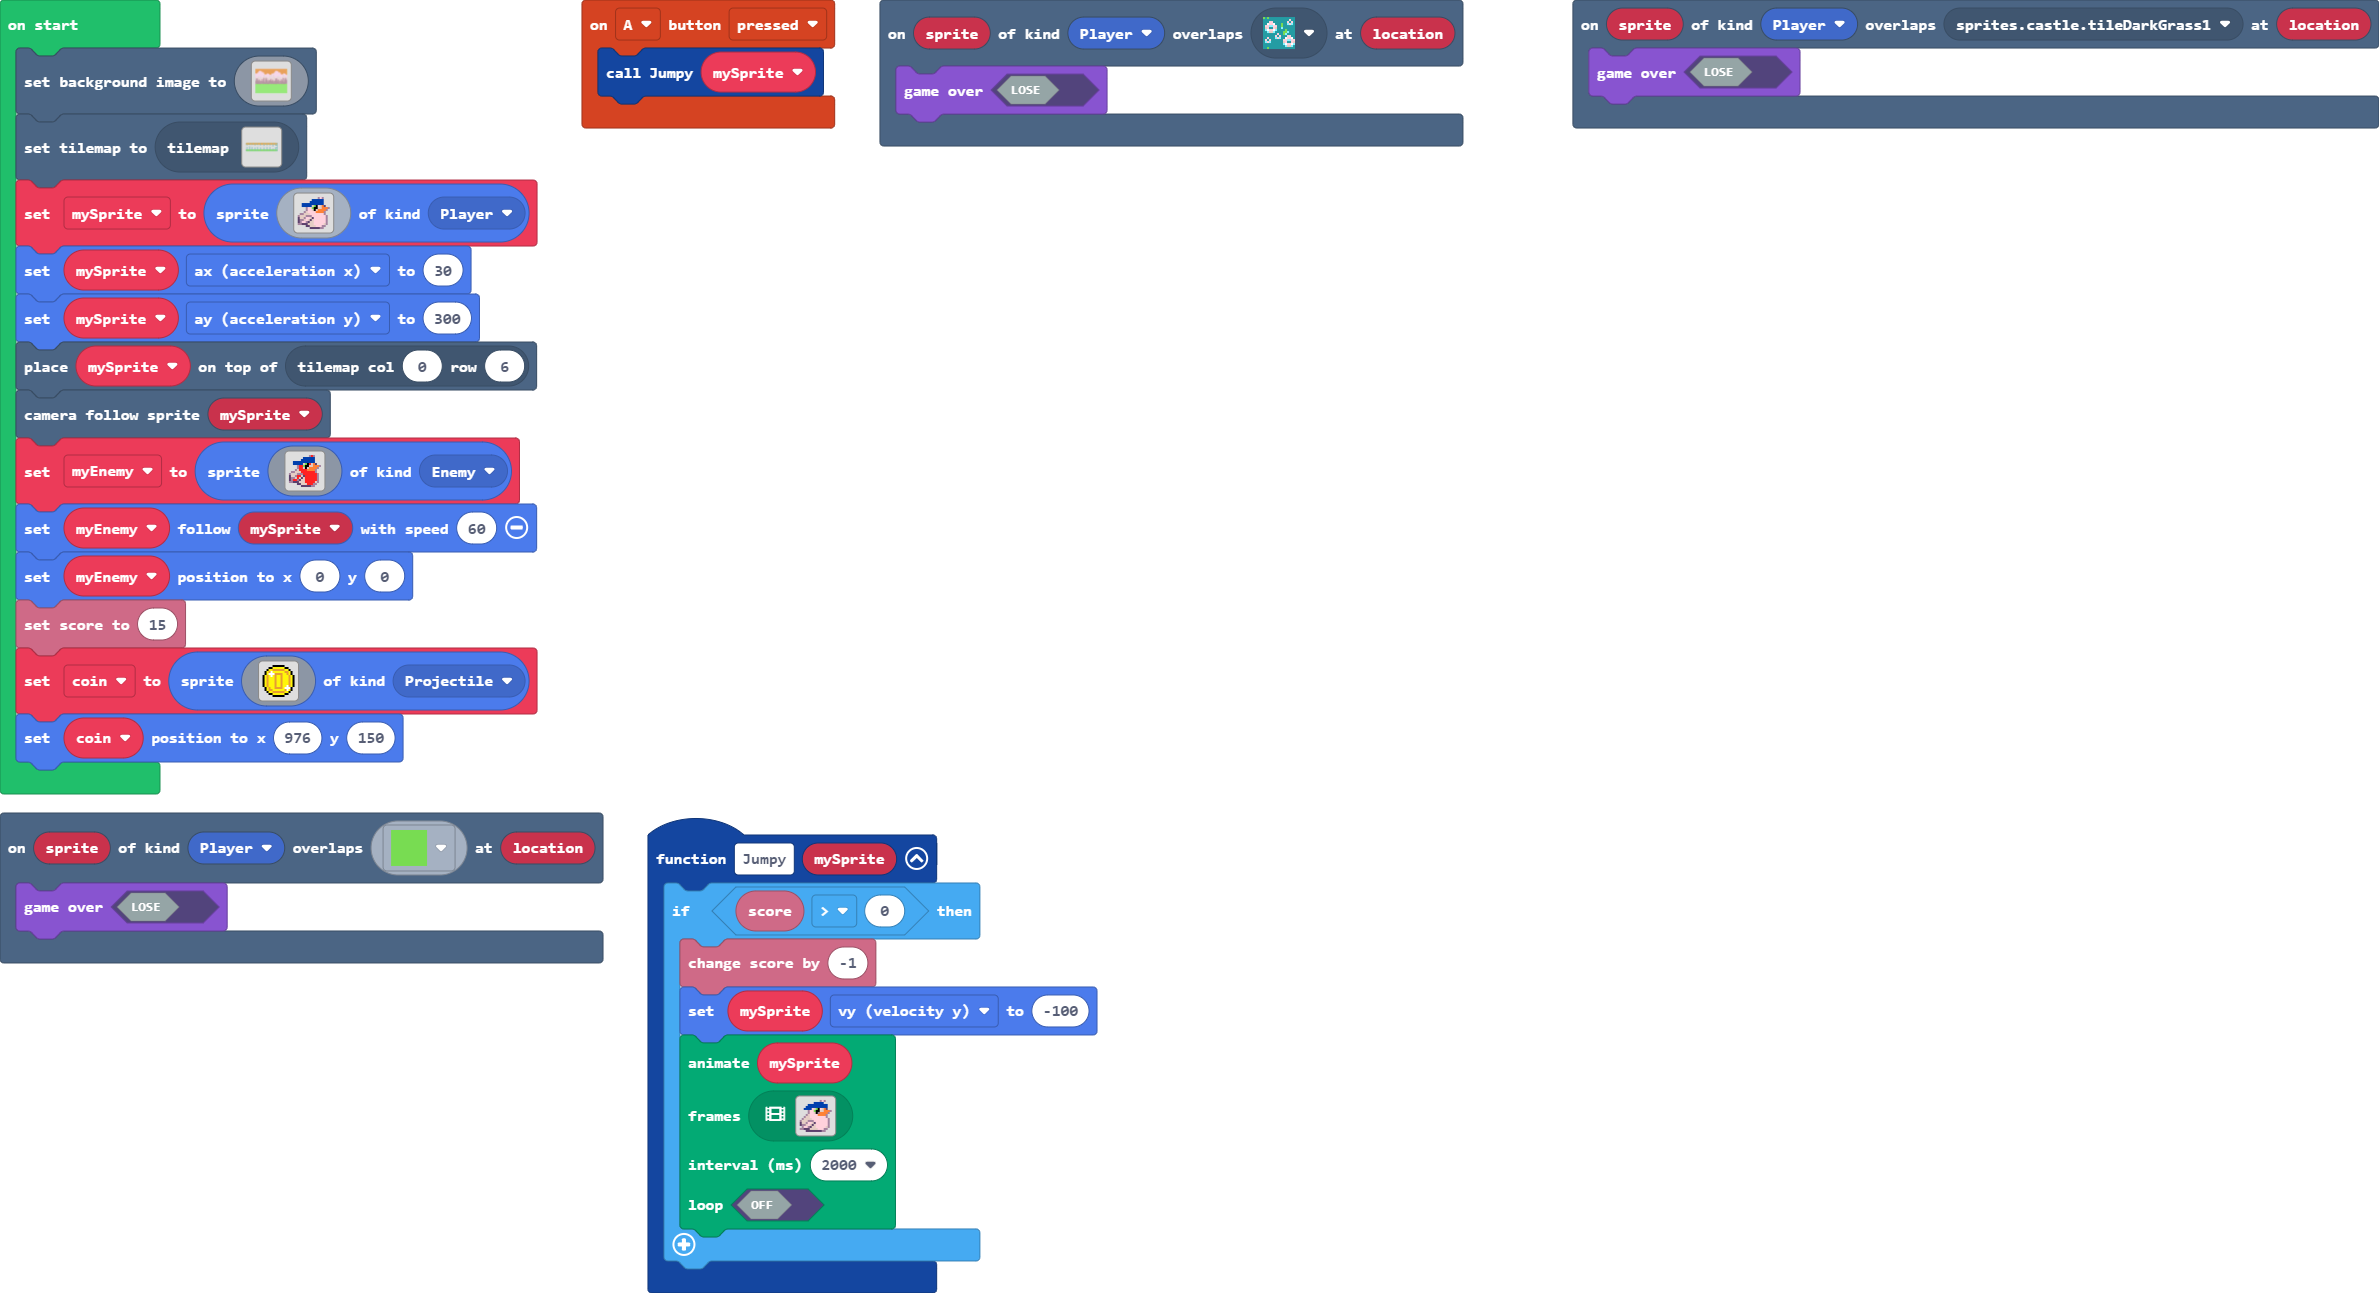
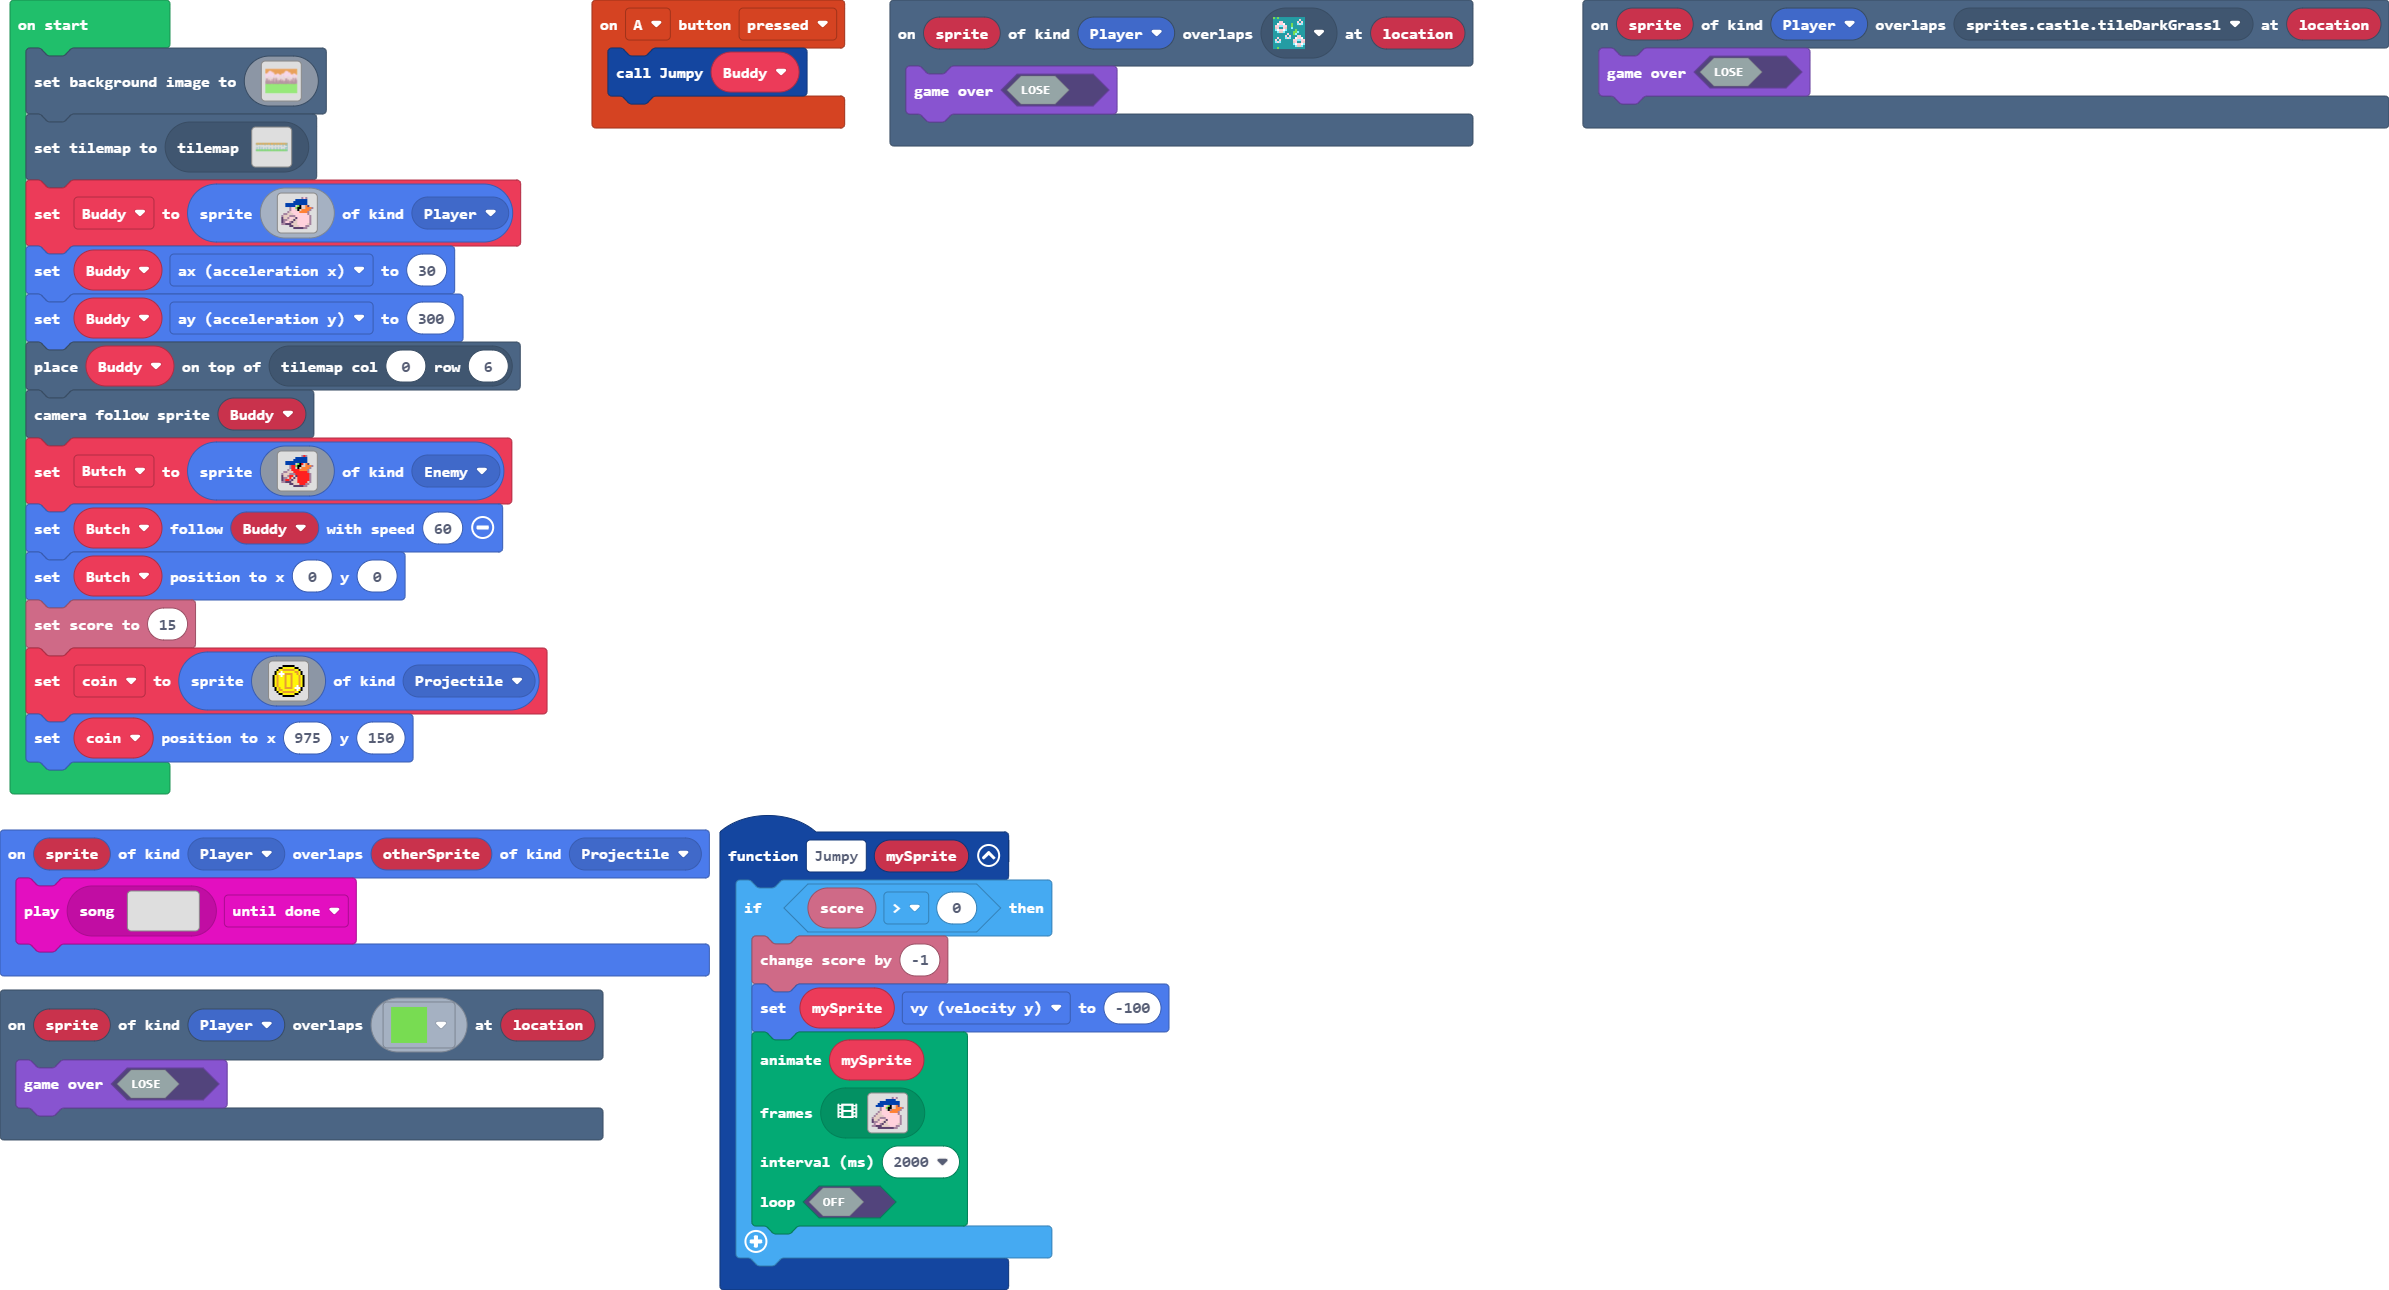
Update main.blocks, main.ts

diff --git a/main.ts b/main.ts
@@ -65,15 +65,18 @@ scene.onOverlapTile(SpriteKind.Player, sprites.castle.tileDarkGrass1, function (
     game.gameOver(false)
 })
 controller.A.onEvent(ControllerButtonEvent.Pressed, function () {
-    Jumpy(mySprite)
+    Jumpy(Buddy)
 })
 scene.onOverlapTile(SpriteKind.Player, sprites.skillmap.islandTile4, function (sprite, location) {
     game.gameOver(false)
 })
+sprites.onOverlap(SpriteKind.Player, SpriteKind.Projectile, function (sprite, otherSprite) {
+    music.play(music.createSong(hex`00780004080200`), music.PlaybackMode.UntilDone)
+})
 scene.onOverlapTile(SpriteKind.Player, sprites.castle.tileDarkGrass2, function (sprite, location) {
     game.gameOver(false)
 })
-let mySprite: Sprite = null
+let Buddy: Sprite = null
 scene.setBackgroundImage(img`
     9999999999999999999999999999999999999999999999999999999999999999999999999999999999999999999999999999999999999999999999999999999999999999999999999999999999999999
     9999999999999999999999999999999999999999999999999999999999999999999999999999999999999999999999999999999999999999999999999999999999999999999999999999999999999999
@@ -197,7 +200,7 @@ scene.setBackgroundImage(img`
     7777777777777777777777777777777777777777777777777777777777777777777777777777777777777777777777777777777777777777777777777777777777777777777777777777777777777777
     `)
 tiles.setCurrentTilemap(tilemap`level3`)
-mySprite = sprites.create(img`
+Buddy = sprites.create(img`
     . . . . . . . . . . b 1 b . . . 
     . . . . . . . a a a a a a . . . 
     . . . . . . a a a a a a a . . . 
@@ -215,11 +218,11 @@ mySprite = sprites.create(img`
     . . . . c c d d d 1 1 1 b b . . 
     . . . . . . c c c c c b b . . . 
     `, SpriteKind.Player)
-mySprite.ax = 30
-mySprite.ay = 300
-tiles.placeOnTile(mySprite, tiles.getTileLocation(0, 6))
-scene.cameraFollowSprite(mySprite)
-let myEnemy = sprites.create(img`
+Buddy.ax = 30
+Buddy.ay = 300
+tiles.placeOnTile(Buddy, tiles.getTileLocation(0, 6))
+scene.cameraFollowSprite(Buddy)
+let Butch = sprites.create(img`
     . . . . . . . . . . b 2 b . . . 
     . . . . . . . a a a a a a . . . 
     . . . . . . a a a a a a a . . . 
@@ -237,8 +240,8 @@ let myEnemy = sprites.create(img`
     . . . . c c d d d 2 2 2 b b . . 
     . . . . . . c c c c c b b . . . 
     `, SpriteKind.Enemy)
-myEnemy.follow(mySprite, 60)
-myEnemy.setPosition(0, 0)
+Butch.follow(Buddy, 60)
+Butch.setPosition(0, 0)
 info.setScore(15)
 let coin = sprites.create(img`
     . . . . . f f f f f f . . . . . 
@@ -258,4 +261,4 @@ let coin = sprites.create(img`
     . . . f f 5 5 5 5 5 5 f f . . . 
     . . . . . f f f f f f . . . . . 
     `, SpriteKind.Projectile)
-coin.setPosition(976, 150)
+coin.setPosition(975, 150)
